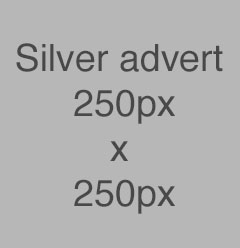
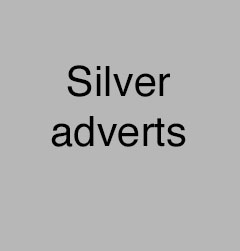
Changed advert sizes.

Changed region(s): [[0.0583, 0.1694, 0.9333, 0.6492], [0.2917, 0.7056, 0.7292, 0.875]]

diff --git a/index.html b/index.html
@@ -216,33 +216,34 @@
         </div>
           <div class="adverts">
 
-             <img src="images/gold-star-advert.jpg">
+             <img src="images/goldstaradvert.jpg">
            </div>
             <div class="adverts">
-               <img src="images/halfpagegoldad.jpg">
+               <img src="images/gold-advert.jpg">
              </div>
             <div class="adverts">
-               <img src="images/silver-advert-300x250.jpg">
+               <img src="images/silver-advert.jpg">
              </div>
 
 
             <div class="adverts">
-               <img src="images/silver-advert-300x250.jpg">
+               <img src="images/silver-advert.jpg">
              </div>
             <div class="adverts">
-               <img src="images/bronze-advert-250x250.jpg">
+               <img src="images/bronze-adverts.jpg">
             </div>
             <div class="adverts">
-              <img src="images/bronze-advert-250x250.jpg">
+              <img src="images/bronze-adverts.jpg">
            </div>
            <div class="adverts">
-             <img src="images/bronze-advert-250x250.jpg">
+             <img src="images/bronze-adverts.jpg">
           </div>
           <div class="adverts">
-            <img src="images/bronze-advert-250x250.jpg">
+            <img src="images/bronze-adverts.jpg">
          </div>
 
        </aside>
+       
 
    <footer>
      <nav class="footer-nav">

diff --git a/css/style.css b/css/style.css
@@ -169,6 +169,7 @@ main {
   display: flex;
   background-color: #f2f2f2;
   padding-top: 30px;
+  align-items: flex-start;
 }
 .featured-full-article-container {
   flex-basis:95%;
@@ -264,7 +265,7 @@ main {
 
 .chair-chat {
   position: relative;
-  width: 240px;
+  width: 90%;
   margin: 0 auto 30px auto;
  box-shadow: 5px 5px 5px #777;
  -webkit-box-shadow: 5px 5px 5px #777;
@@ -275,7 +276,7 @@ main {
 
 
 .chair-chat img {
-  width: 240px;
+  width: 100%;
   height: auto;
   border: 20px solid #fff;
   border-bottom: 120px solid #fff;
@@ -307,10 +308,15 @@ main {
   padding-left: 10px;
 }
 .adverts {
-  margin: 0 auto;
-  padding: 20px;
+  width: 90%;
+  margin: 20px auto;
+  
 }
+.adverts img {
+  width: 100%;
+  height: auto;
 
+}
 footer {
   grid-area: footer;
   display: flex;
